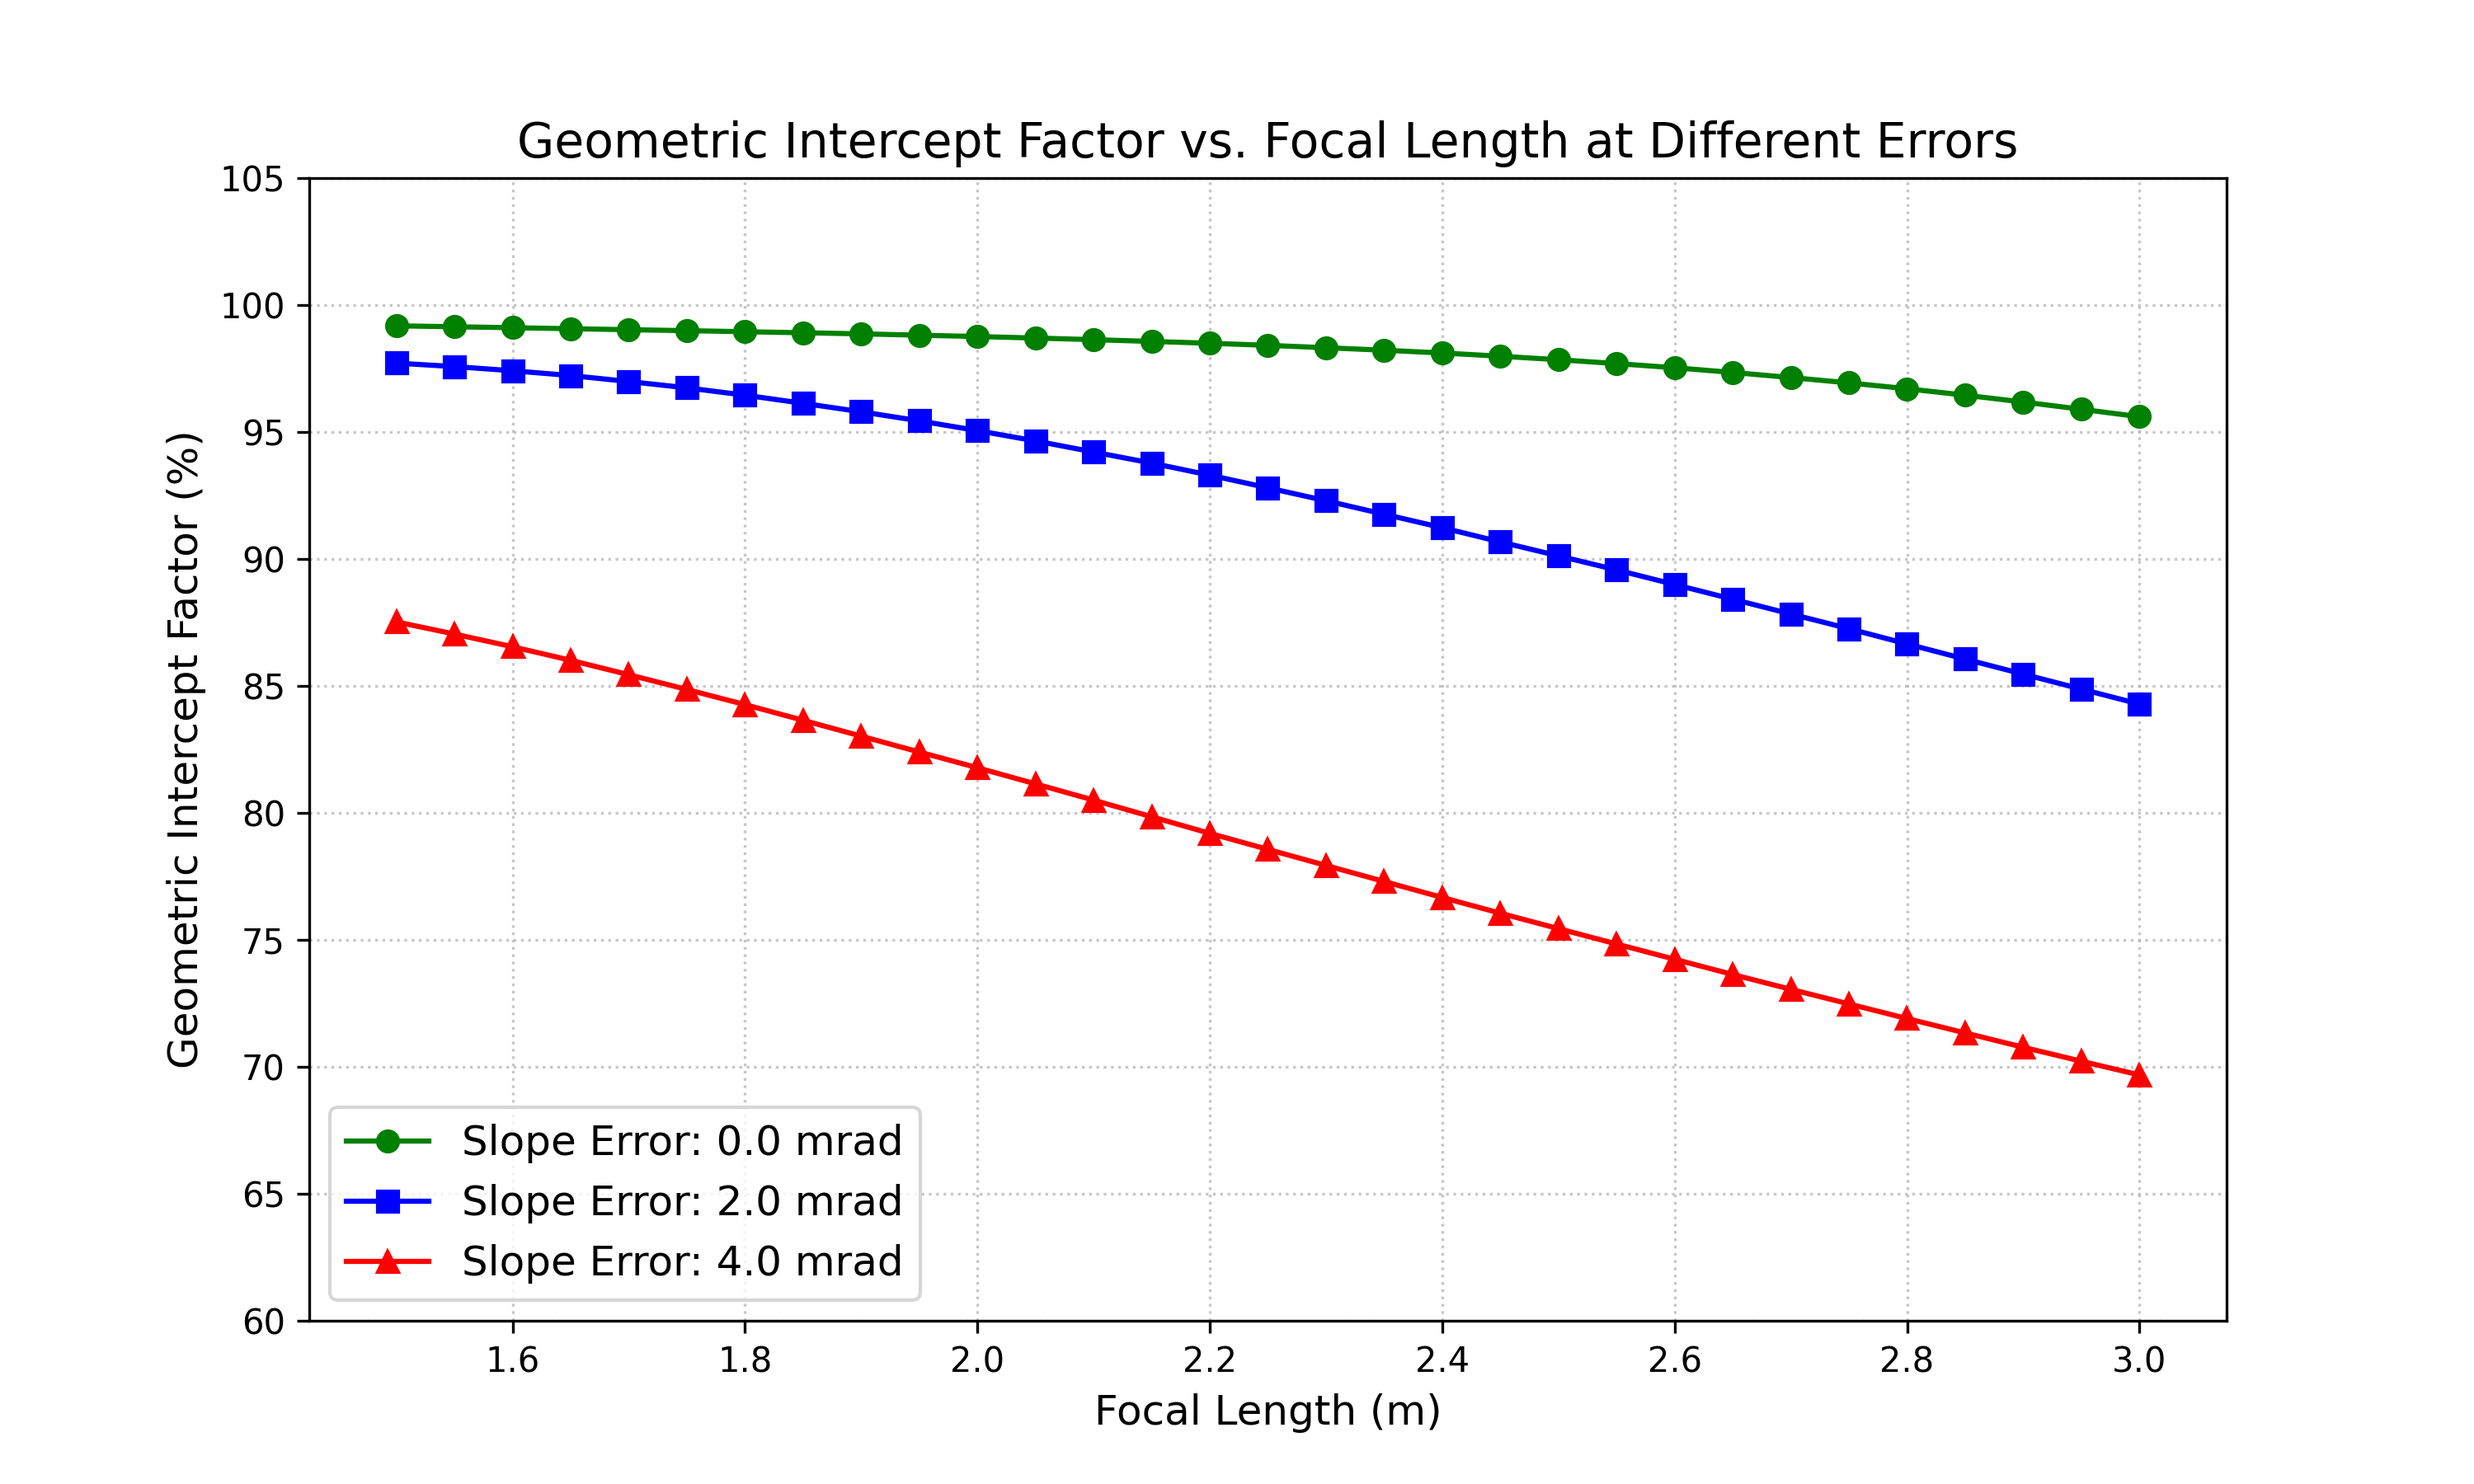
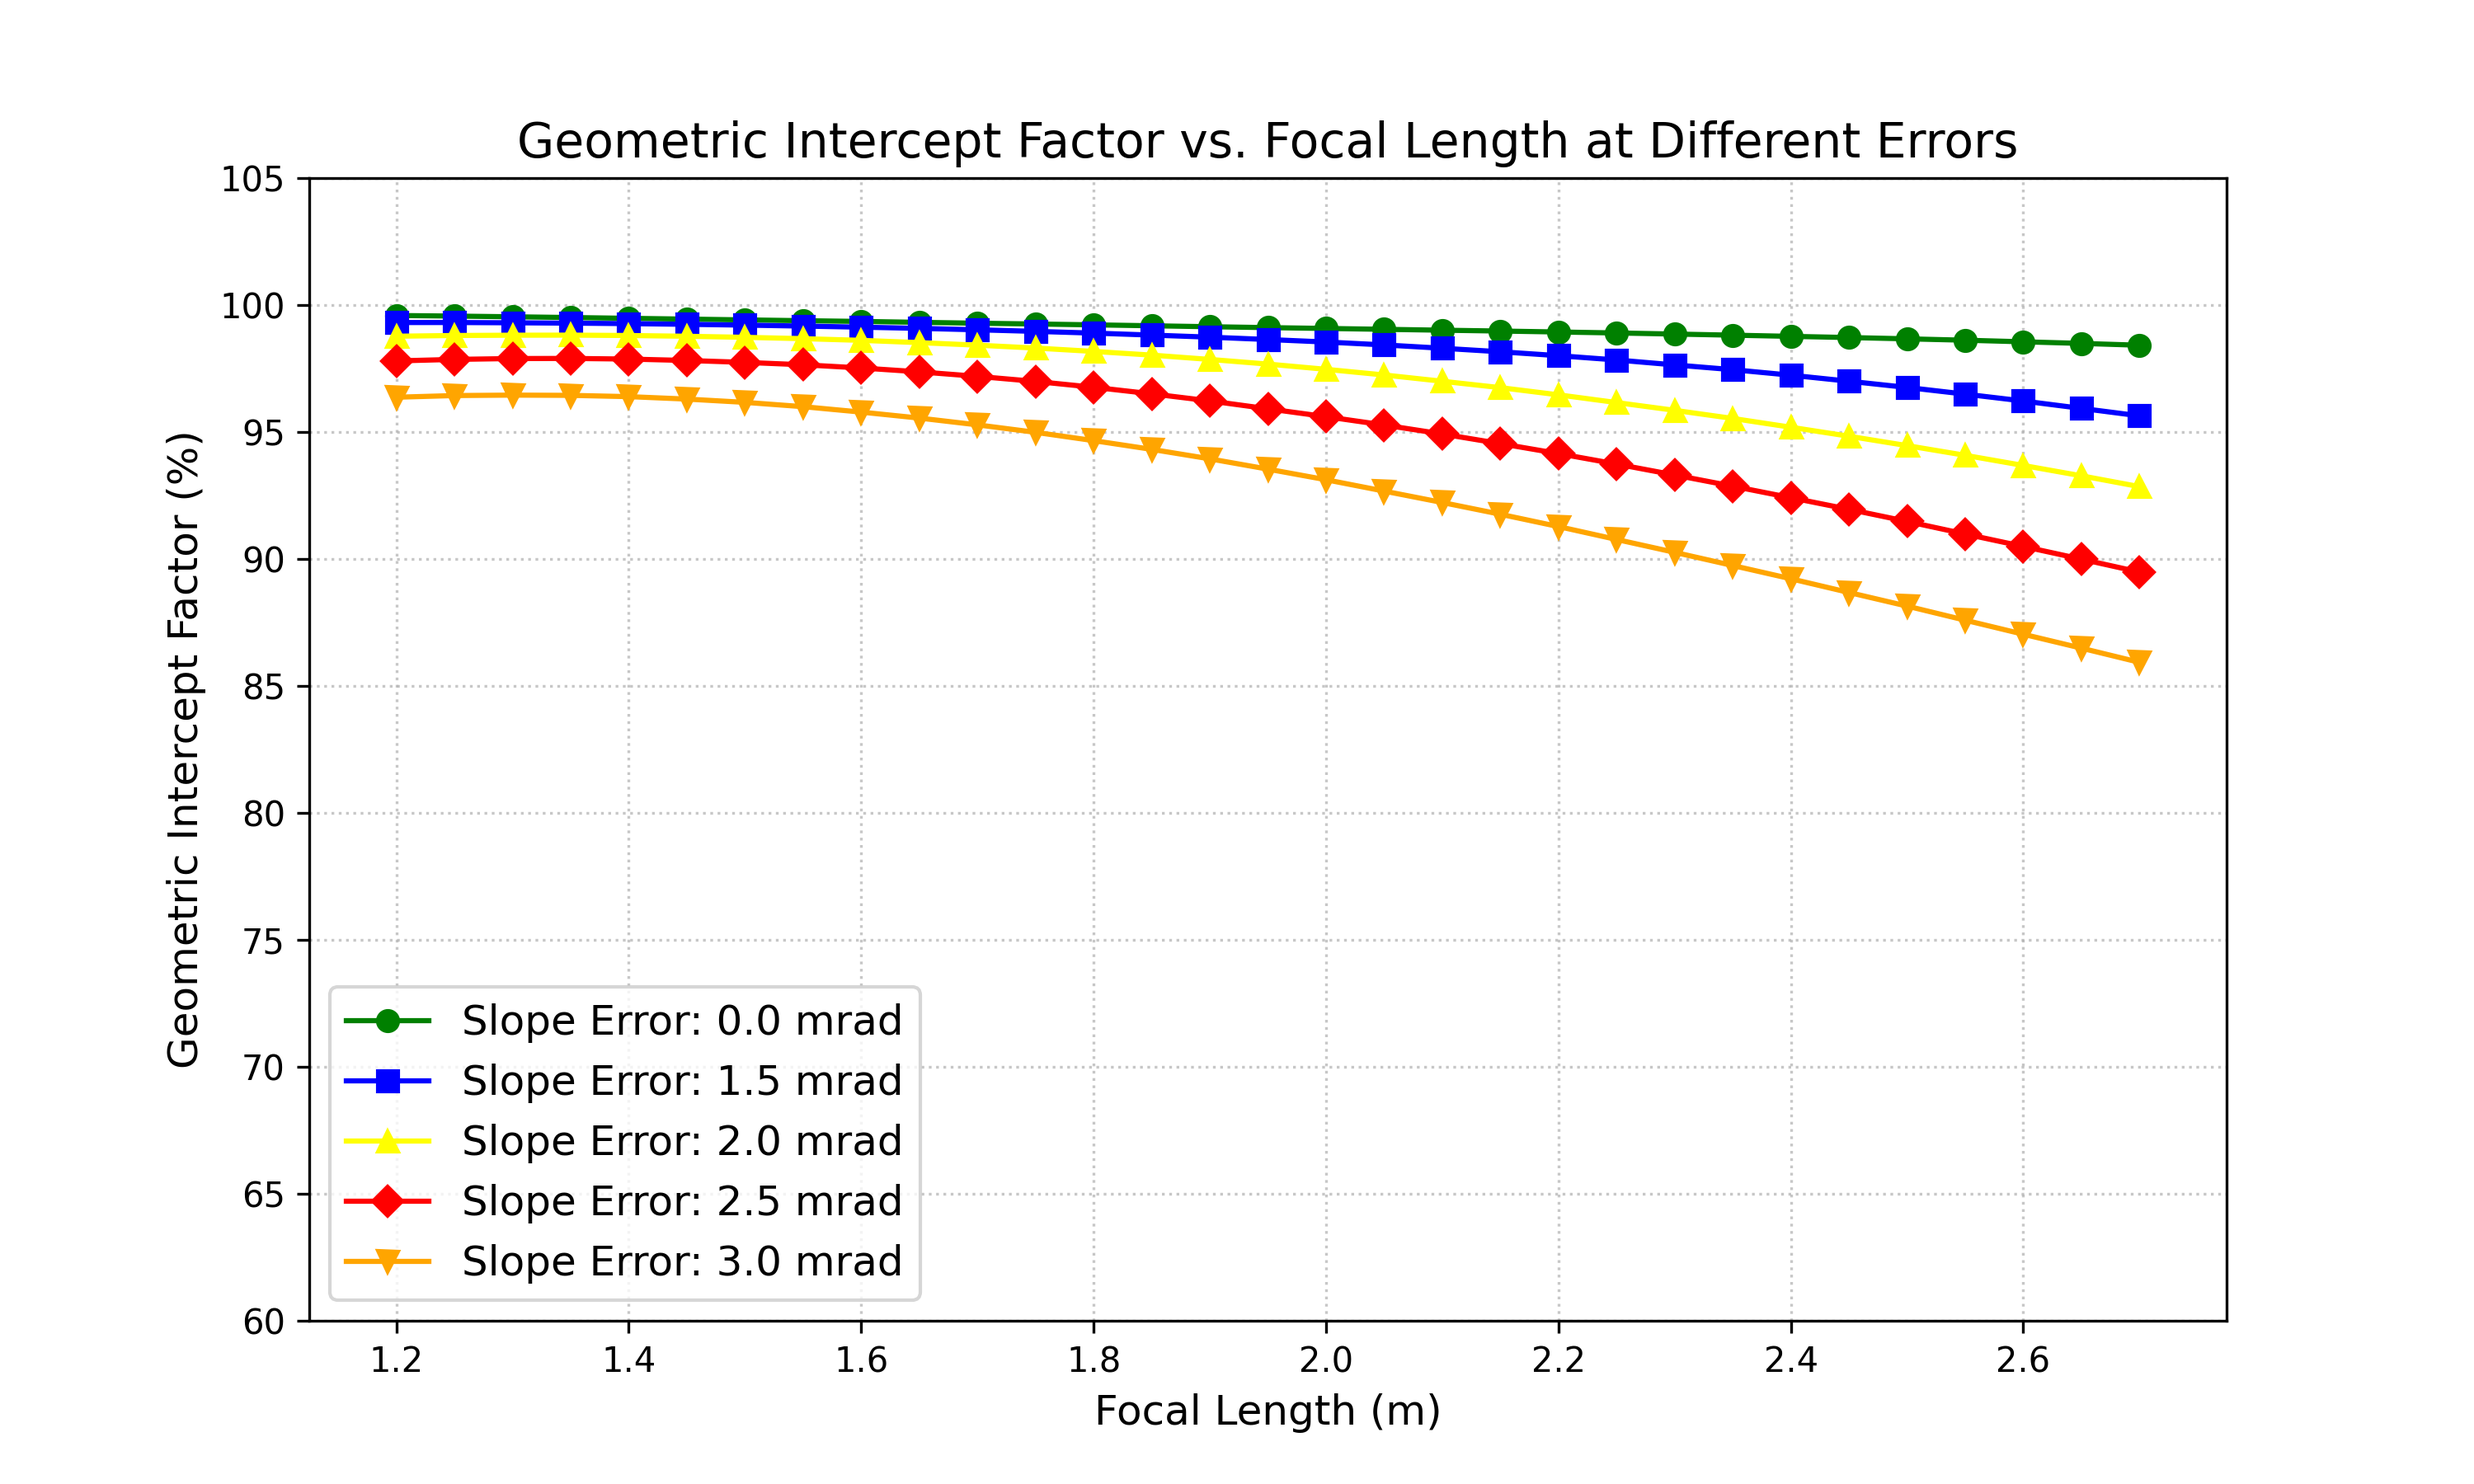
26.4.22

diff --git a/scripts/scan_intercept.py b/scripts/scan_intercept.py
@@ -10,8 +10,8 @@ CONFIG_PATH = '../resources/config.json'   # 根据你的实际路径调整
 EXEC_PATH = '../build/mcrt_sim'          # CUDA 程序的执行路径
 SLOPE_ERRORS_MRAD = np.linspace(0, 5, 11)  # 扫描范围：0 到 5 mrad，共 11 个点
 TUBES = {
-    'DN80': 0.040,  # 半径 40mm
-    'DN90': 0.045   # 半径 45mm
+    'DN80': 0.045,  # 半径 45mm
+    'DN90': 0.050   # 半径 50mm
 }
 
 def update_config(radius, slope_error):
@@ -80,8 +80,8 @@ def main():
     plt.figure(figsize=(10, 6))
     
     # 绘制 DN80 和 DN90 曲线
-    plt.plot(SLOPE_ERRORS_MRAD, results['DN80'], marker='o', linestyle='-', color='b', label='DN80 (r=40mm)')
-    plt.plot(SLOPE_ERRORS_MRAD, results['DN90'], marker='s', linestyle='--', color='r', label='DN90 (r=45mm)')
+    plt.plot(SLOPE_ERRORS_MRAD, results['DN80'], marker='o', linestyle='-', color='b', label='DN80 (r=45mm)')
+    plt.plot(SLOPE_ERRORS_MRAD, results['DN90'], marker='s', linestyle='--', color='r', label='DN90 (r=50mm)')
     
     plt.title('Geometric Intercept Factor vs. Slope Error', fontsize=14)
     plt.xlabel('Slope Error (mrad)', fontsize=12)
@@ -91,8 +91,8 @@ def main():
     plt.legend(fontsize=12)
     
     # 保存并显示图像
-    plt.savefig('intercept_factor_comparison.png', dpi=300)
-    print("\n扫描完成！图表已保存为 'intercept_factor_comparison.png'")
+    plt.savefig('../out/intercept_factor_comparison.png', dpi=300)
+    print("\n扫描完成！图表已保存到 '../out/intercept_factor_comparison.png'")
     plt.show()
 
 if __name__ == "__main__":

diff --git a/scripts/scan_focal_length.py b/scripts/scan_focal_length.py
@@ -10,14 +10,13 @@ CONFIG_PATH = '../resources/config.json'
 EXEC_PATH = '../build/mcrt_sim'          
 
 # 焦距扫描范围：1.5m 到 3.0m，步长约 0.05m
-FOCAL_LENGTHS = np.linspace(1.5, 3.0, 31)
+FOCAL_LENGTHS = np.linspace(1.2, 2.7, 31)
 
 # 我们挑选几个典型的面型误差水平进行对比 (单位: mrad)
-# 0.0 (完美镜面), 2.0 (常规水平), 4.0 (较差水平)
-SLOPE_ERRORS_MRAD = [0.0, 2.0, 4.0] 
+SLOPE_ERRORS_MRAD = [0.0,1.5, 2.0, 2.5,3.0] 
 
 # 固定管径为 DN80 进行测试
-FIXED_RADIUS = 0.04
+FIXED_RADIUS = 0.045
 
 def update_config(focal_length, slope_error):
     """读取并同步更新焦距与集热管位置"""
@@ -72,8 +71,8 @@ def main():
     # --- 绘制敏感度（曲率）对比图 ---
     plt.figure(figsize=(10, 6))
     
-    colors = ['green', 'blue', 'red']
-    markers = ['o', 's', '^']
+    colors = ['green', 'blue', 'yellow','red','orange']
+    markers = ['o', 's', '^','D', 'v']
     
     for i, error_mrad in enumerate(SLOPE_ERRORS_MRAD):
         plt.plot(FOCAL_LENGTHS, results[error_mrad], 
@@ -89,8 +88,8 @@ def main():
     plt.grid(True, linestyle=':', alpha=0.7)
     plt.legend(fontsize=12)
     
-    plt.savefig('focal_length_sensitivity.png', dpi=300)
-    print("\n扫描完成！图表已保存为 'focal_length_sensitivity.png'")
+    plt.savefig('../out/focal_length_sensitivity.png', dpi=300)
+    print("\n扫描完成！图表已保存为 '../out/focal_length_sensitivity.png'")
     plt.show()
 
 if __name__ == "__main__":

diff --git a/scripts/paint_energy_distribution.py b/scripts/paint_energy_distribution.py
@@ -6,7 +6,7 @@ from matplotlib import cm
 # ==========================================
 # 1. 配置参数 (请根据你的 config.json 确认)
 # ==========================================
-csv_file_path = "../build/flux_map.csv"  # 假设你在 scripts 目录下运行，csv 在 build 里
+csv_file_path = "../out/flux_map.csv"  # 假设你在 scripts 目录下运行，csv 在 build 里
 absorber_length = 1.9                  # 集热管总长度 (m)
 absorber_radius = 0.04                 # 集热管半径 (m)
 
@@ -75,7 +75,7 @@ ax2.view_init(elev=30, azim=45)
 # 5. 保存与展示
 # ==========================================
 plt.tight_layout()
-save_path = "flux_distribution_result.png"
+save_path = "../out/flux_distribution.png"
 plt.savefig(save_path, dpi=300, bbox_inches='tight')
 print(f"🎉 绘图完成！图片已保存至: {save_path}")
 

diff --git a/scripts/find_optimal_focal.py b/scripts/find_optimal_focal.py
@@ -11,7 +11,7 @@ EXEC_PATH = '../build/mcrt_sim'
 
 # 槽式开口宽度
 APERTURE_WIDTH = 8.61502 
-ABSORBER_RADIUS = 0.04
+ABSORBER_RADIUS = 0.045
 SLOPE_ERROR_RAD = 2
 SPEC_ERROR_RAD = 2.5
 
@@ -99,8 +99,8 @@ def main():
     plt.legend(fontsize=12, loc='lower center')
     
     plt.tight_layout()
-    plt.savefig('optimal_focal_length.png', dpi=300)
-    print("图表已保存为 'optimal_focal_length.png'")
+    plt.savefig('../out/optimal_focal_length.png', dpi=300)
+    print("图表已保存为 '../out/optimal_focal_length.png'")
     plt.show()
 
 if __name__ == "__main__":
